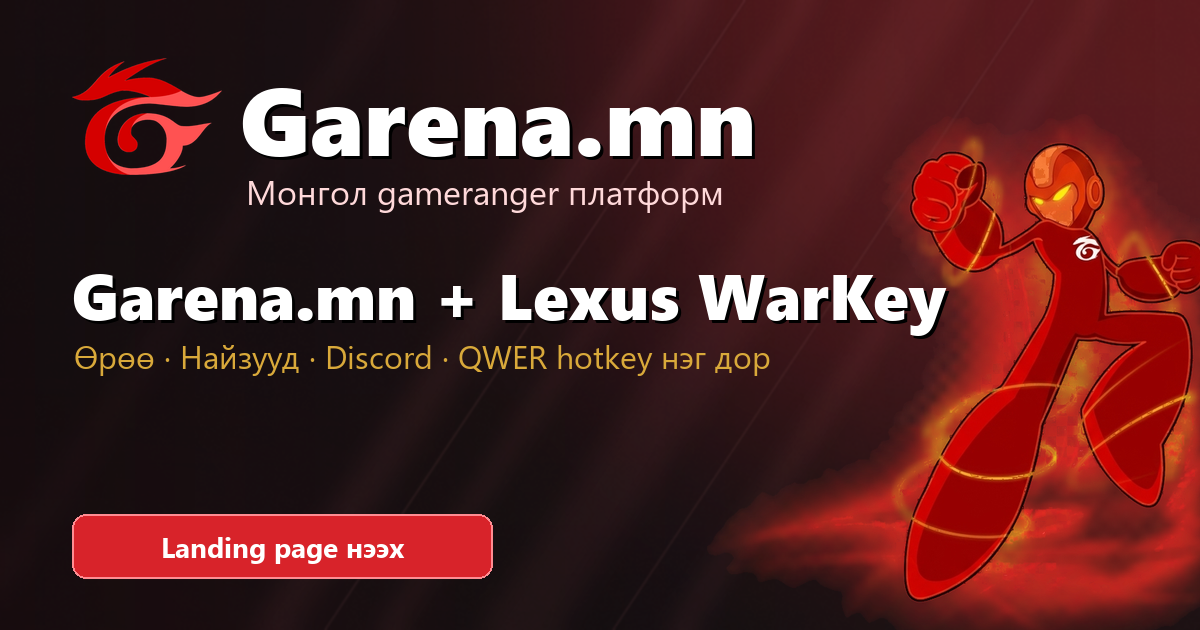
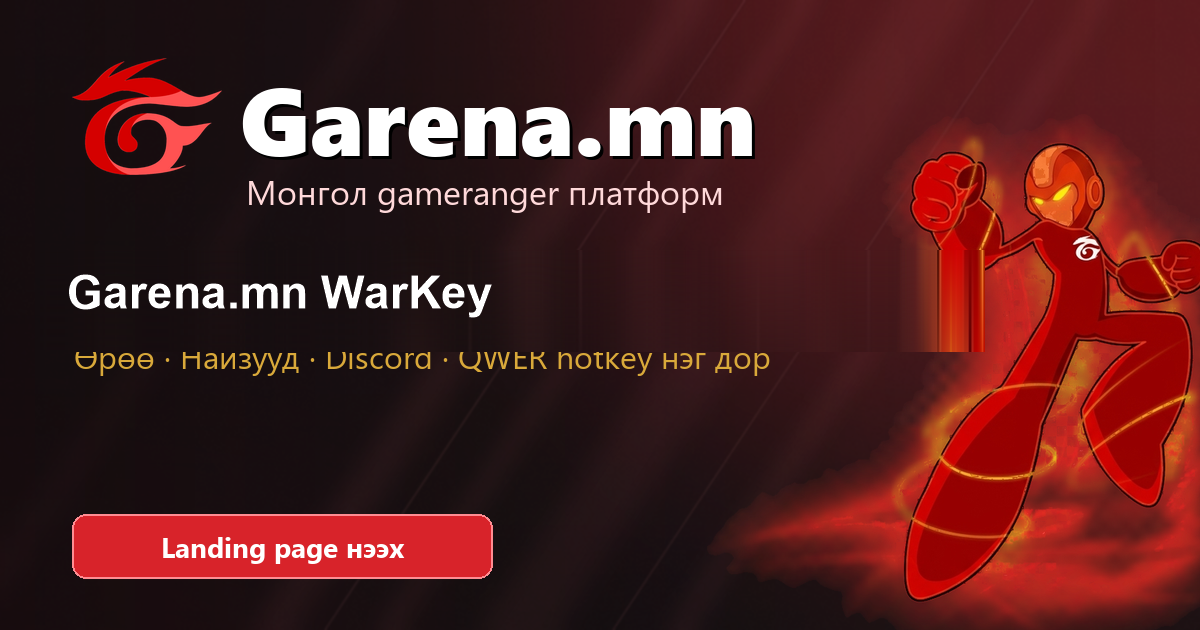
OG preview зургаас "Lexus WarKey" → "Garena.mn WarKey" болгож зассан
Discord/Facebook линк хуваалцахад гарч ирдэг social-preview зурган дотор хуучин
"Lexus WarKey" текст шатаагдсан байсныг "Garena.mn WarKey" болгов (оригинал
маскот/дэвсгэрийг хэвээр, зөвхөн текст мөрийг босоо интерполяциар цэвэр солив).
og:image / twitter:image cache-buster ?v=20260902 болгож, дахин татагдахаар хийв.

Changed region(s): [[0.0308, 0.3921, 0.8325, 0.573], [0.4008, 0.5429, 0.4625, 0.573]]

diff --git a/server/src/public/index.html b/server/src/public/index.html
@@ -10,9 +10,9 @@
 <meta property="og:title" content="Garena.mn + Garena.mn WarKey">
 <meta property="og:description" content="Монголын WC3/DotA тоглогчдод зориулсан өрөө, найзууд, Discord платформ болон Garena.mn WarKey hotkey tool нэг хуудсан дээр.">
 <meta property="og:url" content="https://garenamn-production.up.railway.app/">
-<meta property="og:image" content="https://garenamn-production.up.railway.app/assets/social-preview-warkey.png?v=20260822-2">
-<meta property="og:image:url" content="https://garenamn-production.up.railway.app/assets/social-preview-warkey.png?v=20260822-2">
-<meta property="og:image:secure_url" content="https://garenamn-production.up.railway.app/assets/social-preview-warkey.png?v=20260822-2">
+<meta property="og:image" content="https://garenamn-production.up.railway.app/assets/social-preview-warkey.png?v=20260902">
+<meta property="og:image:url" content="https://garenamn-production.up.railway.app/assets/social-preview-warkey.png?v=20260902">
+<meta property="og:image:secure_url" content="https://garenamn-production.up.railway.app/assets/social-preview-warkey.png?v=20260902">
 <meta property="og:image:type" content="image/png">
 <meta property="og:image:width" content="1200">
 <meta property="og:image:height" content="630">
@@ -21,7 +21,7 @@
 <meta name="twitter:title" content="Garena.mn + Garena.mn WarKey">
 <meta name="twitter:description" content="Монголын WC3/DotA тоглогчдод зориулсан өрөө, найзууд, Discord платформ болон Garena.mn WarKey hotkey tool нэг хуудсан дээр.">
 <meta name="twitter:url" content="https://garenamn-production.up.railway.app/">
-<meta name="twitter:image" content="https://garenamn-production.up.railway.app/assets/social-preview-warkey.png?v=20260822-2">
+<meta name="twitter:image" content="https://garenamn-production.up.railway.app/assets/social-preview-warkey.png?v=20260902">
 <meta name="twitter:image:alt" content="Garena.mn — Монгол gameranger платформ + Garena.mn WarKey">
 <meta name="theme-color" content="#0b0d12">
[1 lines of base64/hex data omitted]
